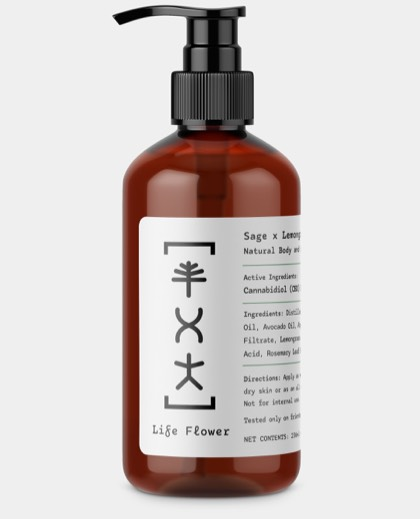
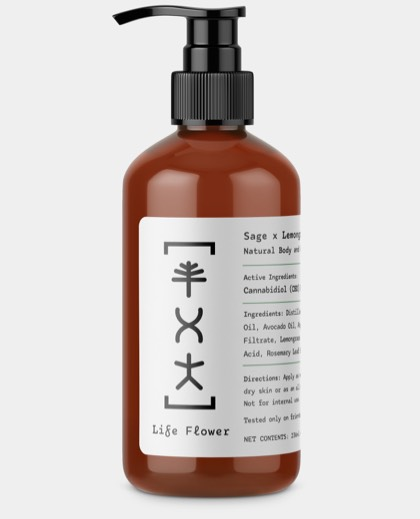
update lotion images, names, and descriptions

Changed region(s): [[0.3405, 0.2466, 0.65, 0.4316], [0.4024, 0.8632, 0.619, 0.9557]]

diff --git a/_products/lotion-frank-myrrh.md b/_products/lotion-frank-myrrh.md
@@ -26,18 +26,15 @@ hidden: false
 
 out_of_stock_message:
 
-long_description: For the early riser. Gently awaken the body and soul with an uplifting Lemongrass wash.  Lemongrass essential oil is anti-depressive, antiseptic and astringent, it sterilizes the pores, serves as a natural toner and strengthens skin tissues - making it a great solution for those struggling with skin conditions like acne or eczema. Packed with citral and limonene, Lemongrass kills off bacteria and fungi associated with ringworm, athlete’s foot and even candida. Infused with a cleansed, tumbled Citrine - the stone of mental clarity and visualization.
+long_description: The Frank x Myrrh Relief Lotion is a natural, nourishing blend of plant fats and grounding essential oils formulated to hydrate and stimulate vital skin function. This unique lotion provides maximum absorption and hydration on a cellular level while remaining light and non-greasy on the skin. Paired with 200mg of revitalizing hemp-derived CBD.
 
-ingredients: Saponified Organic Coconut Oil, Saponified Organic Olive Oil, Saponified Organic Jojoba Oil, Organic Hemp-Derived CBD Isolate, Lemongrass Essential Oil, Natural Rosemary Extract, Organic Aloe Vera, Cleansed & Charged Citrine
+ingredients: Distilled Water, Oatmeal Infused Water, Coconut Oil, Emulsifying Wax NF, Grape Seed Oil, Avocado Oil, Abyssinian Oil, Sweet Almond Oil, Fermented Radish Root, Vanilla Bean Oil, Coconut Fruit Extract, Non GMO Citric Acid Rosemary Leaf Extract, Organic Hemp-Derived Cannabidiol
 
-directions: Lather up and treat your senses to a natural cleansing experience. Massage the plant oils deep into your skin and inhale, hold for 5 seconds. Exhale, hold for 5 seconds and repeat 5 times for a soothing, aromatic treat.
+directions: Apply as needed to relieve sore muscles and repair dry skin or as an all natural, lightweight daily moisturizer. Not for internal use.
 
 product-notes: Life Flower products are made in small batches with all-natural and boutique ingredients. Orders are processed and ship within 14 business days. Please allow additional time for&nbsp;delivery.
 
 history: blank
 
-healing-properties: >-
-  It’s no secret that our skin is our largest organ. Covering our whole body, it is our primary line of defense against illness and dis-ease which can be a big job in today’s society. The vast majority of soap on store shelves is full of synthetics - chemical colors, fragrances/perfumes, foaming boasters, detergents and metals which can all be extremely damaging once rubbed into our most fragile and absorbent organ. Chronic use of these chemical soaps can cause our skin to store them in fat and even in the brain - leading to buildup of cancers and other illnesses. Not only are these chemicals horrible for us, every time we use them they are washed down our drains and introduced into our environment.
-  <br><br>
-  That’s what brought us here. Handcrafted with a blend of gentle plant oils that are divinely designed by Mother Nature to work with our fragile skin and eco-system, our conscious wash gives you clean without chemical. Thickened with pure organic Aloe and scented with 3 different anti-viral, locally sourced essential oils.
+healing-properties: blank
 ---

diff --git a/_products/lotion-vanilla-oatmeal.md b/_products/lotion-vanilla-oatmeal.md
@@ -1,12 +1,12 @@
 ---
-title: "Sage x Lemongrass Lotion"
+title: "Vanilla x Oatmeal Lotion"
 product-category: bath
-name: "Sage x Lemongrass Lotion"
+name: "Sandalwood x Vanilla Lotion"
 description: "200mg Hemp-Derived CBD"
 size: "8.0oz"
 strength: "200mg"
-image-url: "/assets/img/products/lotion-sage-lemongrass.jpg"
-image-large-url: "/assets/img/products/large/lotion-sage-lemongrass.jpg"
+image-url: "/assets/img/products/lotion-vanilla-oatmeal.jpg"
+image-large-url: "/assets/img/products/large/lotion-vanilla-oatmeal.jpg"
 price: 48
 price_wholesale: 24
 price_case: 96
@@ -14,7 +14,7 @@ weight: 292
 weight_case: 1168
 case-count: 4
 
-display_order: -18
+display_order: -17
 cell_layout:
 new: true
 is_crystal: false
@@ -26,7 +26,7 @@ hidden: false
 
 out_of_stock_message:
 
-long_description: The Sage x Lemongrass Relief Lotion is a full body, multi-benefit blend of earth-derived plant oils formulated to allow maximum absorption and cellular hydration. Infused with a fresh essential oil blend combined with 200mg of nourishing hemp-derived CBD, this unique lotion offers hours of lightweight cellular hydration, restoration and support.
+long_description: The Vanilla x Oatmeal Relief Lotion is a lightweight, synergistic blend of plant oils and botanical fats formulated to nourish and repair vital skin function on a cellular level. Infused with a light, neutral essential oil blend and paired with 500mg of revitalizing hemp-derived CBD to offer 24 hours of healing cellular hydration, restoration and support.
 
 ingredients: Saponified Organic Coconut Oil, Saponified Organic Olive Oil, Saponified Organic Jojoba Oil, Organic Hemp-Derived CBD Isolate, Lemongrass Essential Oil, Natural Rosemary Extract, Organic Aloe Vera, Cleansed & Charged Citrine
 
